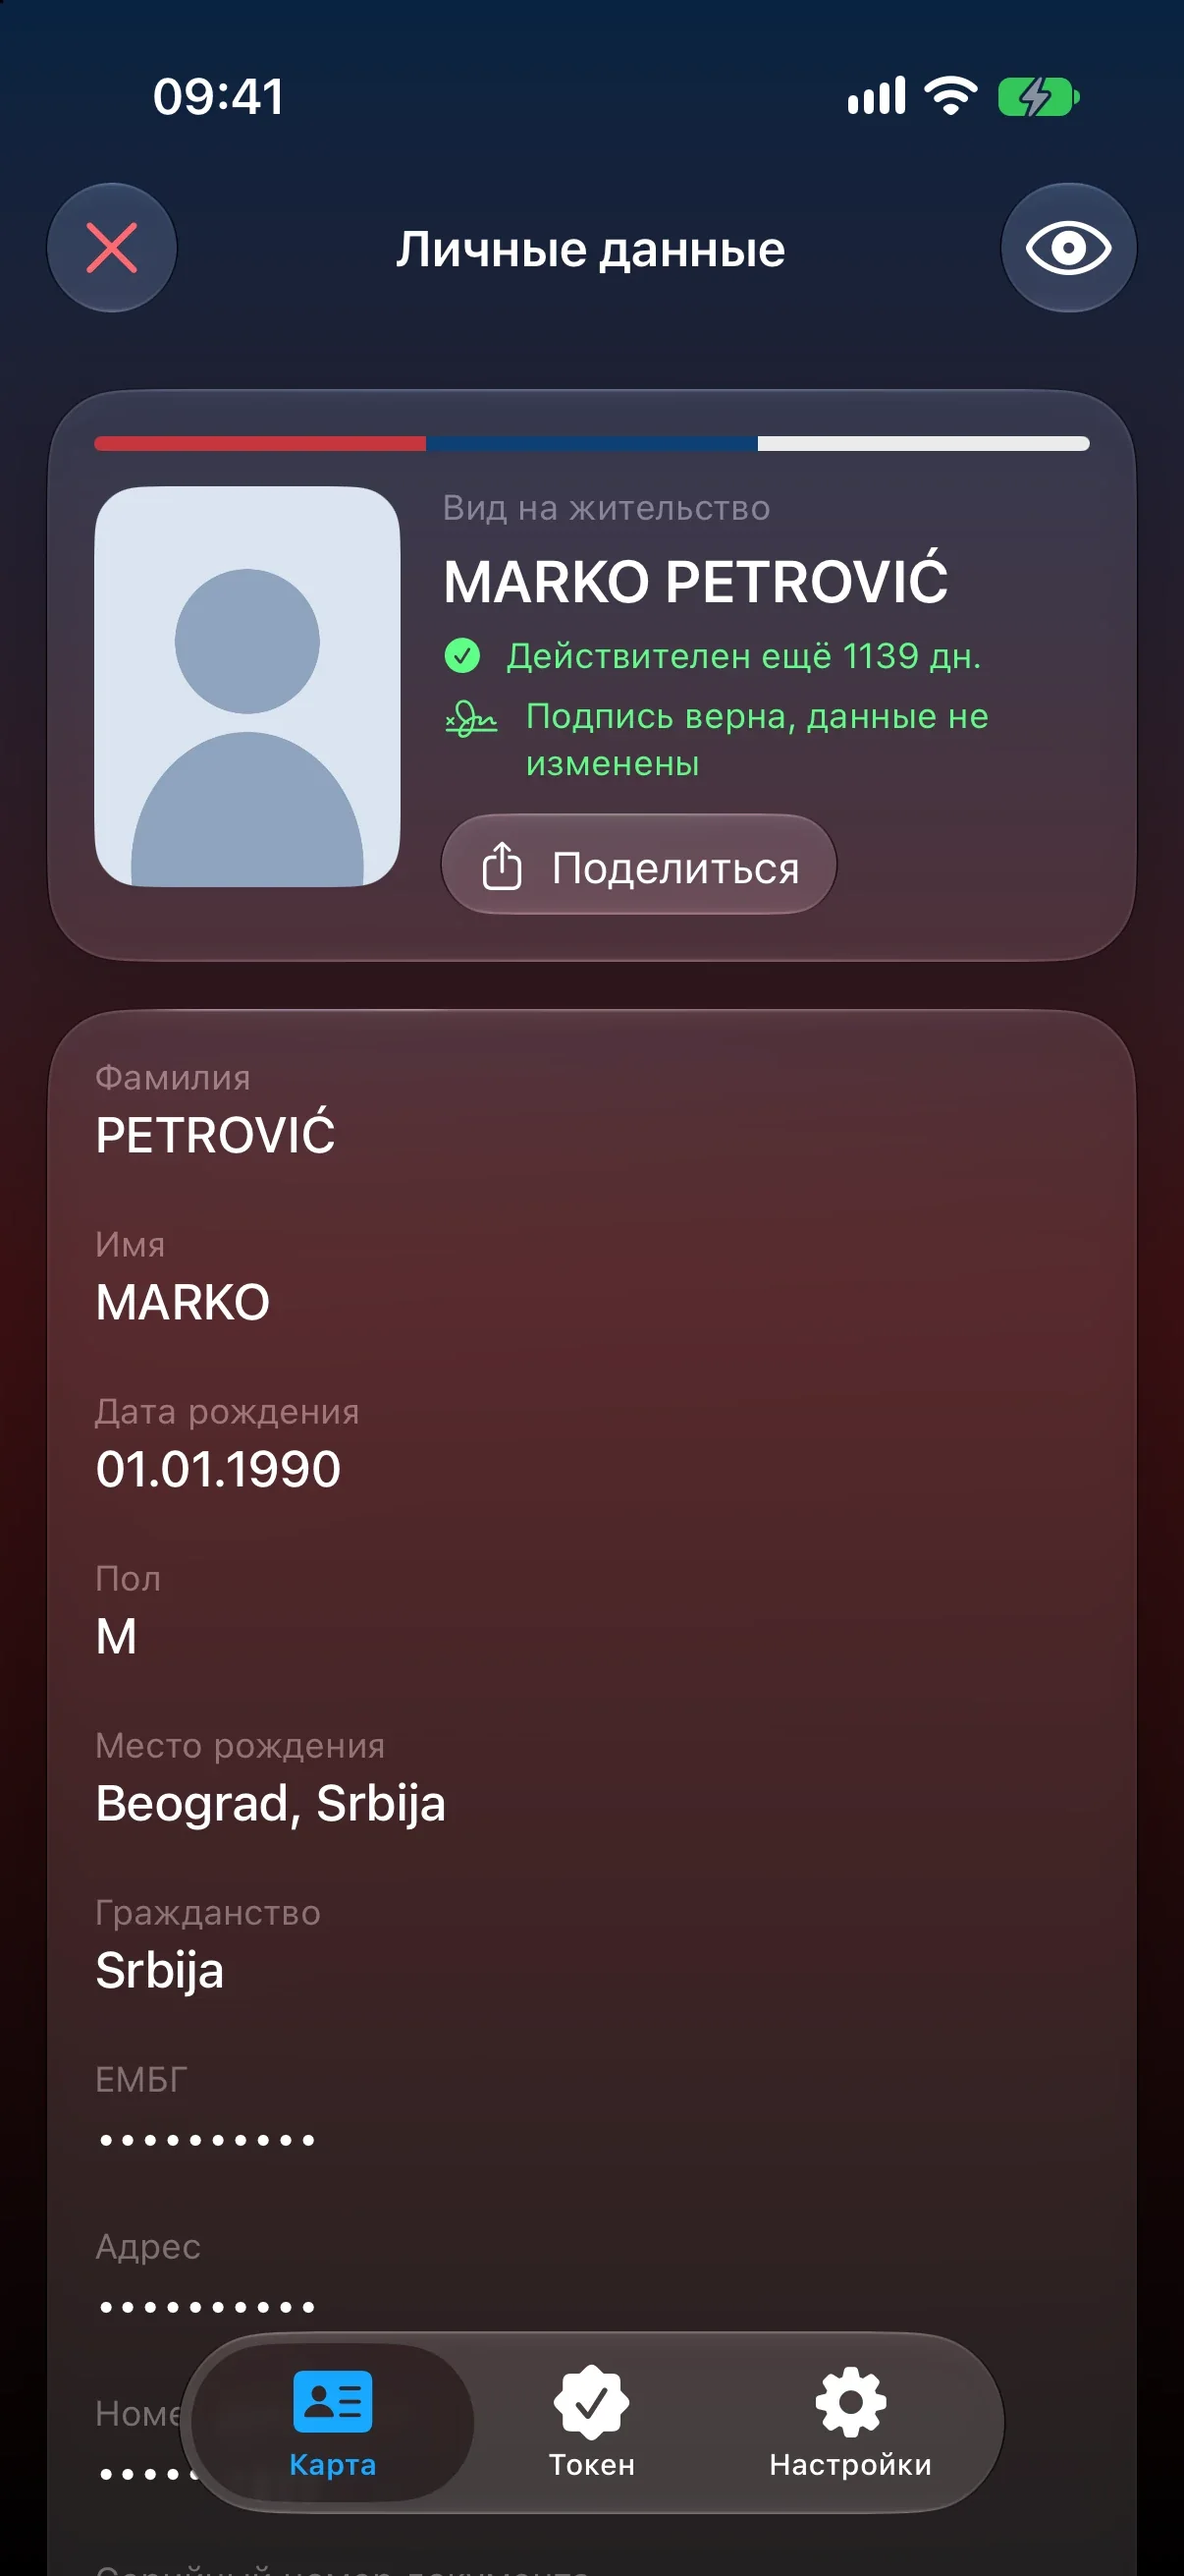
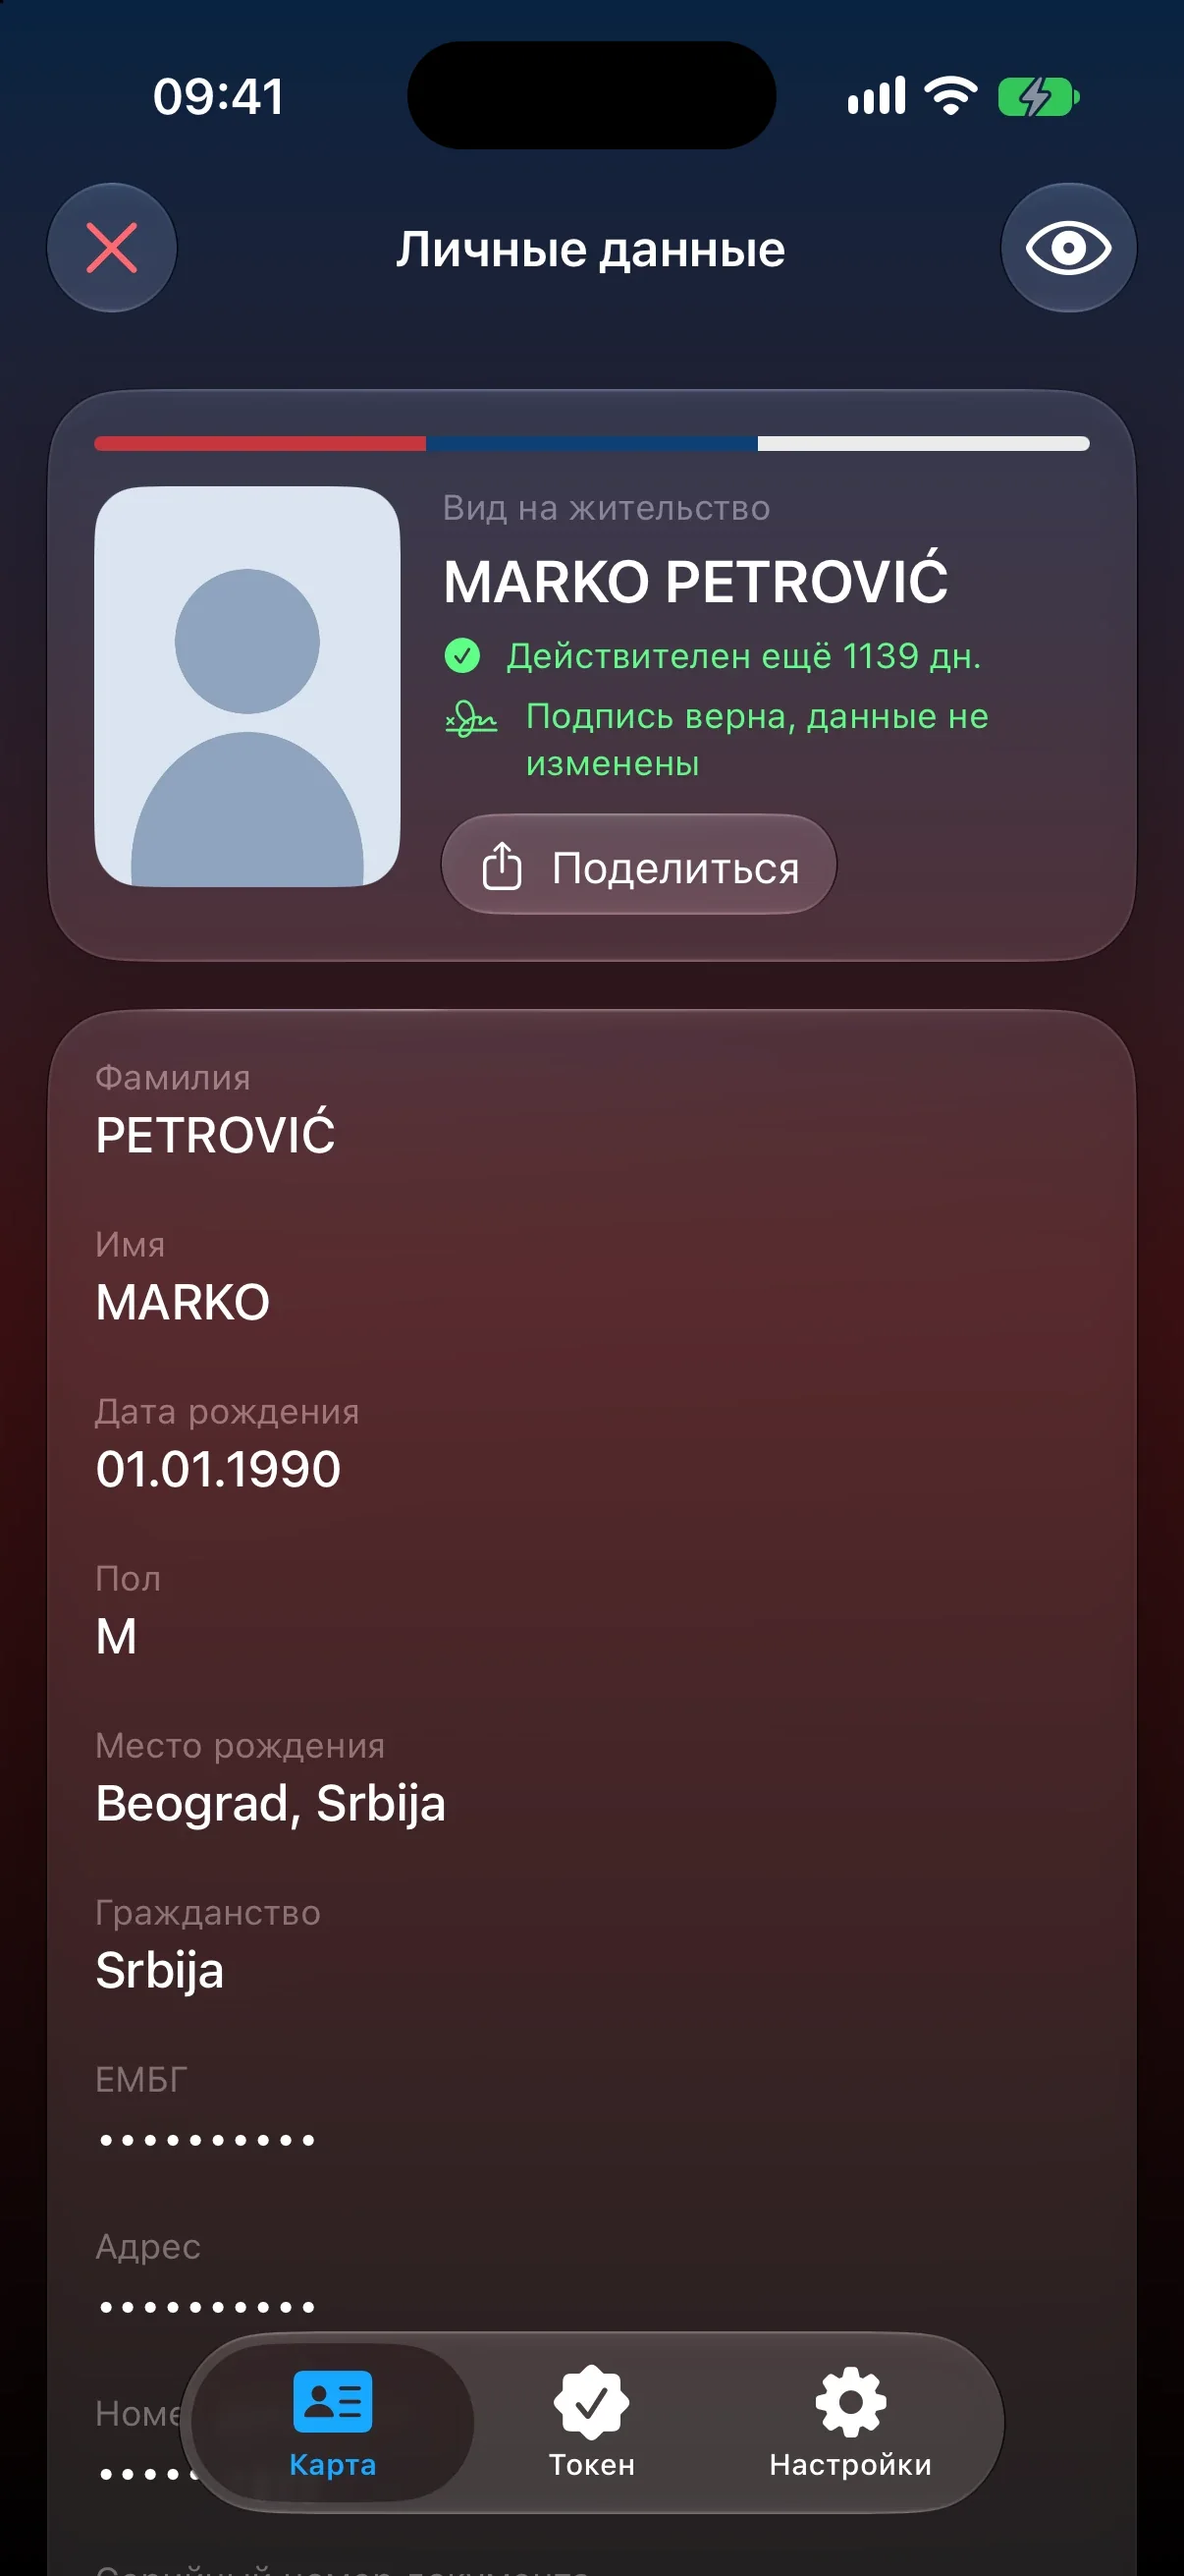
Site: Dynamic Island on iPhone screenshots, shorter caption in the full-screen view (#123)
* Site: Dynamic Island on the iPhone screenshots

Claude-Session: https://claude.ai/code/session_018UhU7MjejAczh983vmBhDb

* Site: full-screen view shows only the title under the screenshot

Claude-Session: https://claude.ai/code/session_018UhU7MjejAczh983vmBhDb

---------

Changed region(s): [[0.3375, 0.0, 0.675, 0.0618]]

diff --git a/site/index.html b/site/index.html
@@ -252,20 +252,19 @@ section{padding:110px 0}
 .lb[hidden]{display:none}
 .lb.on{background:rgba(4,14,32,.9);-webkit-backdrop-filter:blur(16px);backdrop-filter:blur(16px)}
 .lb-stage{display:grid;place-items:center;width:100%;height:100%;min-height:0}
-.lb-stage img{max-width:min(96vw,1500px);max-height:calc(100vh - 215px);width:auto;height:auto;border-radius:16px;box-shadow:0 50px 120px -30px rgba(0,0,0,.8);background:#0a1220}
+.lb-stage img{max-width:min(96vw,1500px);max-height:calc(100vh - 150px);width:auto;height:auto;border-radius:16px;box-shadow:0 50px 120px -30px rgba(0,0,0,.8);background:#0a1220}
 .lb-stage img.ph{border:9px solid #0a1220;border-radius:46px}
 .lb-stage img.ph.ios{border:6px solid #0a0b0f;border-radius:15% / 6.9%;box-shadow:0 0 0 2px #b3b7bf,0 0 0 3.5px #3d4047,0 50px 120px -30px rgba(0,0,0,.8)}
-@supports (height:100dvh){.lb-stage img{max-height:calc(100dvh - 215px)}}
+@supports (height:100dvh){.lb-stage img{max-height:calc(100dvh - 150px)}}
 .lb-cap{max-width:680px;padding:18px 70px 0;text-align:center;color:#fff;opacity:0;transform:translateY(8px);transition:opacity .35s .15s,transform .35s .15s}
 .lb.on .lb-cap{opacity:1;transform:none}
-.lb-cap h3{margin:0 0 4px;font-size:21px;letter-spacing:-.01em}
-.lb-cap p{margin:0;font-size:15.5px;line-height:1.45;color:#c3d6f1}
+.lb-cap h3{margin:0;font-size:21px;letter-spacing:-.01em}
 .lb-x,.lb-nav{position:absolute;display:grid;place-items:center;width:46px;height:46px;border:0;border-radius:50%;background:rgba(255,255,255,.14);color:#fff;cursor:pointer;transition:background .2s,transform .2s;z-index:2}
 .lb-x:hover,.lb-nav:hover{background:rgba(255,255,255,.28)}
 .lb-x{top:18px;right:18px}
 .lb-nav{top:50%;margin-top:-23px}.lb-nav.prev{left:18px}.lb-nav.next{right:18px}
 .lb-x svg,.lb-nav svg{width:22px;height:22px}
-@media(max-width:620px){.lb-stage img{max-height:calc(100vh - 270px)}@supports (height:100dvh){.lb-stage img{max-height:calc(100dvh - 270px)}}.lb{padding:70px 14px 20px}.lb-cap{padding:14px 8px 0}.lb-nav{top:auto;bottom:18px;margin:0}.lb-nav.prev{left:calc(50% - 60px)}.lb-nav.next{right:calc(50% - 60px)}.lb-cap{padding-bottom:62px}.lb-stage img.ph{border-width:7px;border-radius:36px}.lb-stage img.ph.ios{border-width:5px;border-radius:15% / 6.9%}}
+@media(max-width:620px){.lb-stage img{max-height:calc(100vh - 215px)}@supports (height:100dvh){.lb-stage img{max-height:calc(100dvh - 215px)}}.lb{padding:70px 14px 20px}.lb-cap{padding:14px 8px 0}.lb-nav{top:auto;bottom:18px;margin:0}.lb-nav.prev{left:calc(50% - 60px)}.lb-nav.next{right:calc(50% - 60px)}.lb-cap{padding-bottom:62px}.lb-stage img.ph{border-width:7px;border-radius:36px}.lb-stage img.ph.ios{border-width:5px;border-radius:15% / 6.9%}}
 /* iPhone: round corners of one radius, a thin bezel, a titanium rim and the side buttons */
 .phone.ios,.shot .phone.ios{position:relative;overflow:visible;border:5px solid #0a0b0f;border-radius:15% / 6.9%;background:#0a0b0f;box-shadow:0 0 0 1.5px #b3b7bf,0 0 0 2.6px #3d4047,0 40px 70px -20px rgba(0,0,0,.65),0 0 80px -20px rgba(255,110,120,.3)}
 .phone.ios img{border-radius:12.6% / 5.8%}
@@ -379,7 +378,7 @@ footer a{color:#a9c3e6}
   <button class="lb-nav prev" id="lbPrev" type="button" aria-label="←"><svg viewBox="0 0 24 24" fill="none" stroke="currentColor" stroke-width="2.4" stroke-linecap="round" stroke-linejoin="round"><path d="M15 5l-7 7 7 7"/></svg></button>
   <button class="lb-nav next" id="lbNext" type="button" aria-label="→"><svg viewBox="0 0 24 24" fill="none" stroke="currentColor" stroke-width="2.4" stroke-linecap="round" stroke-linejoin="round"><path d="M9 5l7 7-7 7"/></svg></button>
   <div class="lb-stage" id="lbStage"><img id="lbImg" alt=""></div>
-  <div class="lb-cap"><h3 id="lbT"></h3><p id="lbD"></p></div>
+  <div class="lb-cap"><h3 id="lbT"></h3></div>
 </div>
 
 <section id="faq" class="faq"><div class="wrap">
@@ -576,7 +575,7 @@ document.addEventListener("keydown",e=>{if(e.key==="Escape")setAppMenu(false)});
 document.querySelectorAll("#appmenu button").forEach(b=>b.onclick=()=>selectDev(b.dataset.d));
 selectDev(OS&&document.getElementById("d-"+OS)?OS:"mac");
 // full-screen view of a screenshot (zooms out of the card it came from; arrows / swipe / Esc)
-const lb=document.getElementById("lb"),lbImg=document.getElementById("lbImg"),lbT=document.getElementById("lbT"),lbD=document.getElementById("lbD");
+const lb=document.getElementById("lb"),lbImg=document.getElementById("lbImg"),lbT=document.getElementById("lbT");
 const calm=matchMedia("(prefers-reduced-motion: reduce)").matches;
 let lbItems=[],lbIdx=0,lbOpen=false;
 function lbRect(btn){const i=btn.querySelector("img");return i.getBoundingClientRect()}
@@ -588,7 +587,7 @@ function flipFrom(btn,opening){
  return lbImg.animate(opening?[from,to]:[to,{...from,opacity:0}],{duration:opening?520:360,easing:"cubic-bezier(.2,.8,.2,1)",fill:"both"}).finished.catch(()=>{})}
 async function lbShow(i,first){
  lbIdx=(i+lbItems.length)%lbItems.length;const b=lbItems[lbIdx],card=b.closest(".sc");
- lbT.textContent=card.querySelector("h3").textContent;lbD.textContent=card.querySelector("p").textContent;
+ lbT.textContent=card.querySelector("h3").textContent;
  lbImg.alt=b.querySelector("img").alt;lbImg.classList.toggle("ph",b.classList.contains("ph"));lbImg.classList.toggle("ios",!!b.querySelector(".phone.ios"));
  lbImg.src=b.dataset.full;try{await lbImg.decode()}catch(e){}
  if(first){lb.hidden=false;document.documentElement.style.overflow="hidden";lbOpen=true;
